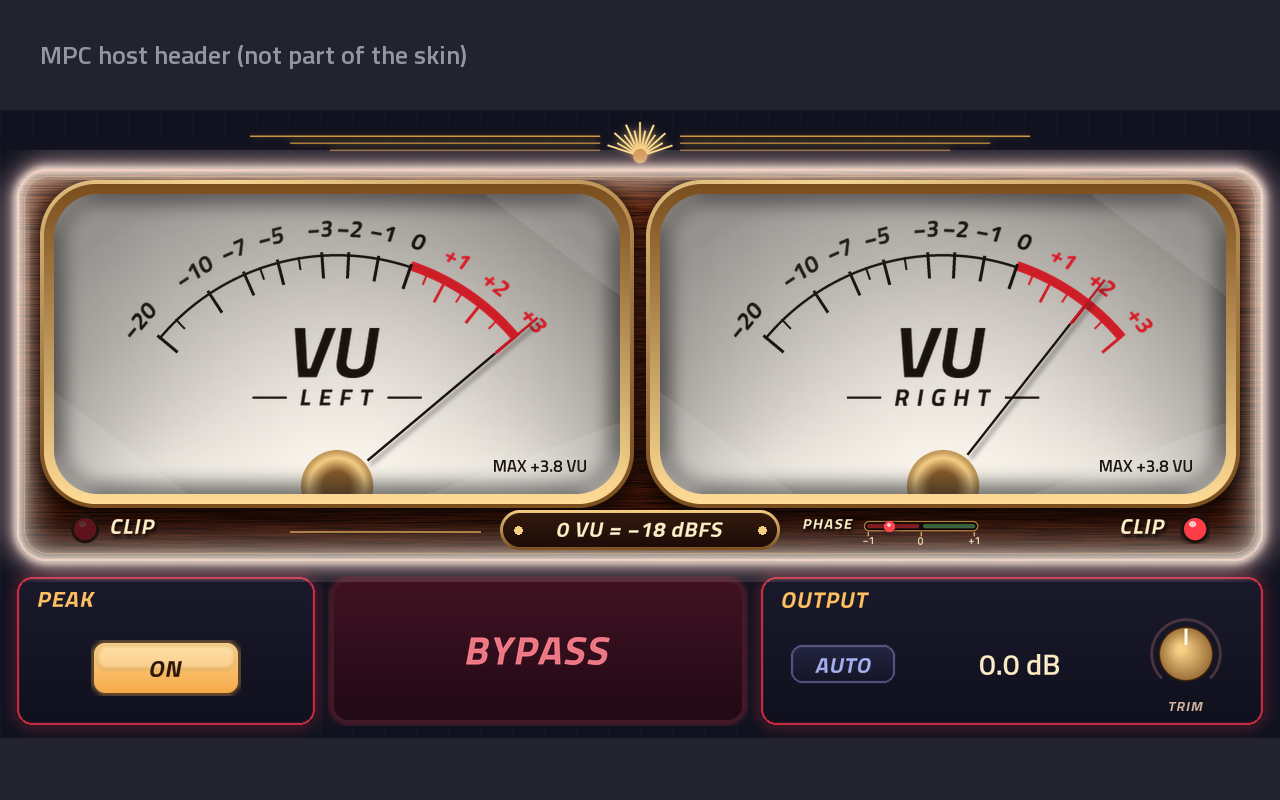
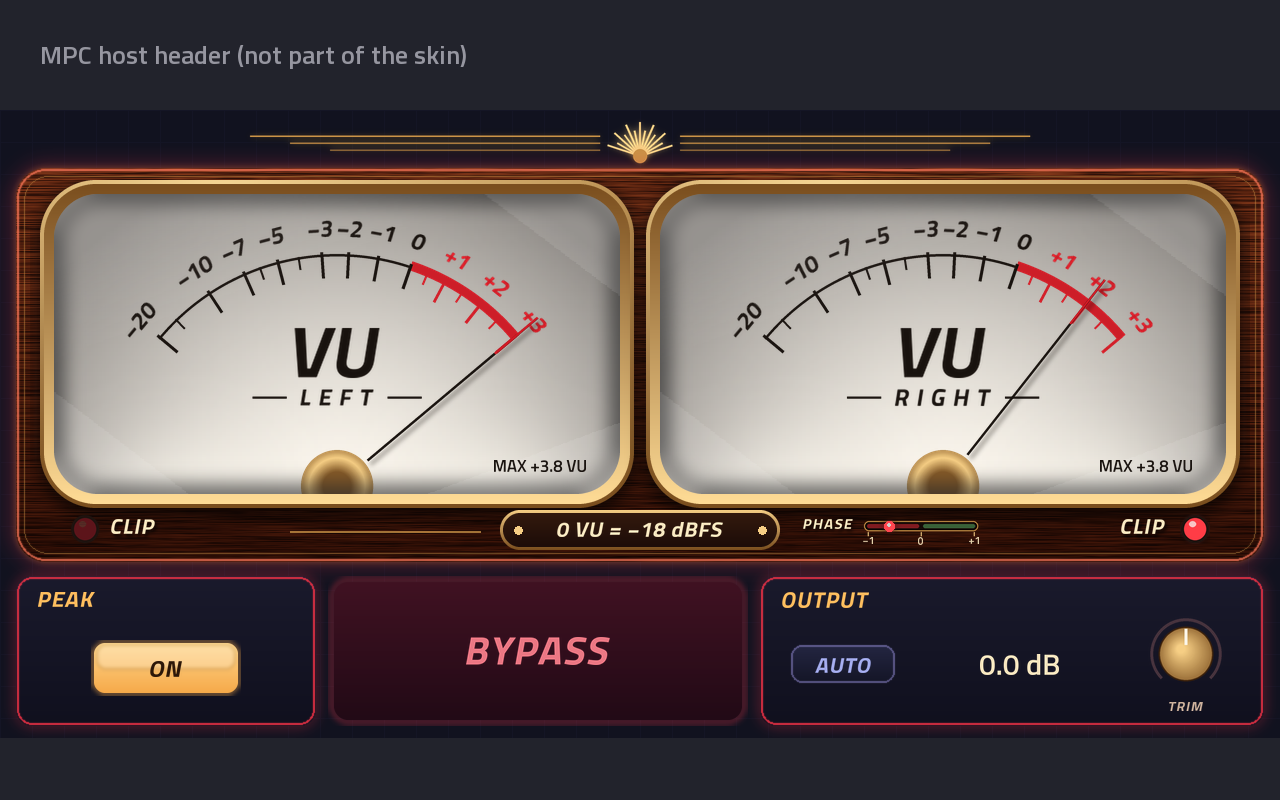
Light: cabinet border never changes colour; React/Cycle tint only the dial windows
Drops the glow halo strip (about 22 MiB of images).

Changed region(s): [[0.0, 0.1875, 1.0, 0.75]]

diff --git a/scripts/make_skin_art.py b/scripts/make_skin_art.py
@@ -402,22 +402,9 @@ def glow_frame(mode, f):
     return img
 
 
-def halo_frame(f):
-    """Full-resolution cabinet halo in the frame's colour (drawn over the static neon edge)."""
-    hx, hy, hw, hh = L.HALO
-    col, heat = L.glow_frame_colour(f)
-    cab = (L.CABINET[0] - hx, L.CABINET[1] - hy, L.CABINET[2], L.CABINET[3])
-    img = Image.new('RGBA', (hw, hh), (0, 0, 0, 0))
-    strength = 0.85 + 0.15 * heat
-    img.alpha_composite(glow_rect((hw, hh), cab, 30, col, 14, 12, int(255 * strength)))
-    img.alpha_composite(glow_rect((hw, hh), cab, 30, col, 6, 6, int(255 * strength)))
-    img.alpha_composite(glow_rect((hw, hh), cab, 30, mix(col, (255, 255, 255), 0.35), 3, 4, int(255 * strength)))
-    return img
-
-
 def make_glow():
     n = L.GLOW_FRAMES
-    gs, hs = L.REACT_GLOW_SCALE, L.REACT_HALO_SCALE
+    gs = L.REACT_GLOW_SCALE
     cw, ch = L.CABINET_INNER[2], L.CABINET_INNER[3]
     for mode in ['stereo']:
         fw, fh = cw // gs, ch // gs
@@ -425,11 +412,6 @@ def make_glow():
         for f in range(n):
             strip.alpha_composite(glow_frame(mode, f).resize((fw, fh), Image.LANCZOS), (0, f * fh))
         save(strip, 'glow_%s.png' % mode)
-    hw, hh = L.HALO[2] // hs, L.HALO[3] // hs
-    strip = Image.new('RGBA', (hw, hh * n), (0, 0, 0, 0))
-    for f in range(n):
-        strip.alpha_composite(halo_frame(f).resize((hw, hh), Image.LANCZOS), (0, f * hh))
-    save(strip, 'glow_halo.png')
 
 
 # ---------------------------------------------------------------------------- needles
@@ -673,9 +655,6 @@ def compose(bg, faces, mode, light_i, vus, cal=1, heat=0.0, clip=True, hue=0.0, 
             step = palette * L.HEAT_FRAMES + int(round(heat * (L.HEAT_FRAMES - 1)))
         else:
             step = L.HUE_FIRST + int(round(hue * L.HUE_FRAMES)) % L.HUE_FRAMES
-        halo = Image.open(os.path.join(OUT, 'glow_halo.png'))
-        hw, hh = halo.size[0], halo.size[1] // L.GLOW_FRAMES
-        page.alpha_composite(halo.crop((0, step * hh, hw, (step + 1) * hh)).resize(L.HALO[2:], Image.BILINEAR), L.HALO[:2])
         glow = Image.open(os.path.join(OUT, 'glow_%s.png' % mode))
         gw, gh = glow.size[0], glow.size[1] // L.GLOW_FRAMES
         page.alpha_composite(glow.crop((0, step * gh, gw, (step + 1) * gh)).resize(L.CABINET_INNER[2:], Image.BILINEAR),

diff --git a/scripts/check_skins.py b/scripts/check_skins.py
@@ -73,8 +73,7 @@ def main():
         for k in range(sectors):
             needle_frames['Parameter %d' % (first + k)] = per + 1
 
-    SCALED = {'glow_stereo.png': L.REACT_GLOW_SCALE, 'glow_mono.png': L.REACT_GLOW_SCALE,
-              'glow_halo.png': L.REACT_HALO_SCALE}
+    SCALED = {'glow_stereo.png': L.REACT_GLOW_SCALE, 'glow_mono.png': L.REACT_GLOW_SCALE}
     decoded = [0]
     widgets = 0
     for tab in page['tabs']:
@@ -102,7 +101,7 @@ def main():
                         fail('%s: %s height %d not divisible by %d frames' % (name, data['image'], size[1], nf))
                     else:
                         fw, fh = size[0], size[1] // nf
-                        # React glow/halo strips are smooth gradients drawn at reduced size on purpose.
+                        # React glow strips are smooth gradients drawn at reduced size on purpose.
                         k = SCALED.get(data['image'], 1)
                         if (fw * k, fh * k) != (w, h):
                             fail('%s: frame %dx%d (x%d) but bounds %dx%d' % (name, fw, fh, k, w, h))

diff --git a/scripts/skin_layout.py b/scripts/skin_layout.py
@@ -65,7 +65,6 @@ HUE_FIRST = HEAT_FRAMES * len(PALETTE_ORDER)
 FLASH_FRAME = HUE_FIRST + HUE_FRAMES
 GLOW_FRAMES = FLASH_FRAME + 1
 REACT_GLOW_SCALE = 4                             # face glow strip at 1/4 resolution (edges hidden under the bezel)
-REACT_HALO_SCALE = 4                             # cabinet halo strip at 1/4 resolution
 FLASH_COLOUR = (255, 250, 238)
 HEAT_STOPS = [                                   # Thermal: heat 0..1 -> backlight colour
     (0.00, (34, 78, 255)),                       # deep blue: quiet
@@ -220,7 +219,6 @@ RATE_BUTTONS = row_buttons(*light_col('cycle'), LIGHT_SUB_Y, 4)
 CLIP_LABELS = ['0 dBFS', '\u22120.3 dBFS', '\u22121 dBFS', '\u22123 dBFS']
 RATE_LABELS = ['1 BAR', '2 BARS', '4 BARS', '8 BARS']
 PALETTE_LABELS = ['THERMAL', 'NEON', 'AMBER']
-HALO = (0, 40, 1280, 432)                      # React cabinet halo region (1/4-res strip)
 
 # ---------------------------------------------------------------------------- dials
 # A dial "window" is the cream face inside a brass bezel. Needle sprites are positioned

diff --git a/scripts/gen_skins.py b/scripts/gen_skins.py
@@ -88,13 +88,9 @@ def main():
     if BY_INDEX[glow]['choices'] and len(BY_INDEX[glow]['choices']) != L.GLOW_FRAMES:
         sys.exit('gen_skins: plugin Glow has %d steps, skin_layout.GLOW_FRAMES is %d'
                  % (len(BY_INDEX[glow]['choices']), L.GLOW_FRAMES))
-    nl = len(L.LIGHT_ORDER)
     g0, g1 = L.LIGHT_ORDER.index(L.GLOW_LIGHTS[0]), L.LIGHT_ORDER.index(L.GLOW_LIGHTS[-1])
 
-    # React / Cycle: cabinet halo in the glow colour (1/4-res strip, scaled up by the MPC)
-    comps.append(filmstrip('glow halo', 'glow_halo.png', L.GLOW_FRAMES, P('Glow'), L.HALO,
-                           only='RangedEnabling/%d/%d/%d/%s' % (g0, g1, nl, P('Light'))))
-
+    # The cabinet border never changes colour: React / Cycle only light the dial windows.
     # dial faces, one per View (= Light; the plugin is stereo only). React and Cycle share a
     # 1/4-res glow strip under a transparent window overlay.
     for li, light in enumerate(L.STATIC_LIGHTS):

diff --git a/docs/SPIKE.md b/docs/SPIKE.md
@@ -22,7 +22,7 @@ These questions can only be answered on a real MPC, ideally a Live III, and an X
 4. **Transparent tap areas.** Transparent Buttons over the CLIP lamps fire the `Reset Clip` trigger.
 
 5. **React and Cycle lighting.**
-   - A 169-step `Glow` parameter drives three filmstrips: a cabinet halo strip and two face-glow strips, all drawn at 1/4 size. The steps are 3 palettes × 16 heat steps, then 120 hue steps, then 1 white clip-flash frame. The glow bleeds 10 px under the bezel so its soft edge is hidden.
+   - A 169-step `Glow` parameter drives the face-glow filmstrip, drawn at 1/4 size. The steps are 3 palettes × 16 heat steps, then 120 hue steps, then 1 white clip-flash frame. The glow bleeds 10 px under the bezel so its soft edge is hidden.
    - The MPC must scale them up to their bounds. It is not yet known whether it scales filmstrip frames, or how smoothly.
    - The glow sits under a full-resolution transparent overlay (bezel, scale, legends).
 
@@ -40,12 +40,12 @@ These questions can only be answered on a real MPC, ideally a Live III, and an X
 | 8 | Check memory and responsiveness | Note memory % before and after opening the plugin and after the view swaps, the page open time, and whether touch and data-wheel response stays crisp while needles move |
 | 9 | Save the project, restart the MPC, reload | 0 VU, Peak, Light, Palette, Rate, Clip Level, Trim and Bypass are restored; needles start at rest |
 | 10 | Run two instances on different tracks with different lights | Independent |
-| 11 | Set LIGHT to REACT and play quiet, then loud, then stop | The dials and halo glow blue when quiet, red near 0 VU and purple when pinned, then fade back to blue over about a second. The glow fills the dial windows exactly; there are no blocky edges or misaligned frames, and the printed scale stays crisp |
+| 11 | Set LIGHT to REACT and play quiet, then loud, then stop | The dials glow blue when quiet, red near 0 VU and purple when pinned, then fade back to blue over about a second. The glow fills the dial windows exactly; there are no blocky edges or misaligned frames, and the printed scale stays crisp |
 | 12 | Set LIGHT to CYCLE; play a sequence at 120 BPM, then stop; change the tempo and time signature | One trip round the colour wheel per 2 bars, the same colour on the same beat every phrase. Pressing Play glides onto the beat. Cycling continues at the tempo when stopped |
 | 13 | Play a loop at about −6 VU and tap AUTO | The button glows for about 3 s, TRIM jumps to about +6.0 dB, the needles then sit around 0 VU. A second tap during listening cancels |
 | 14 | Play mono material, then wide stereo, then flip one channel's polarity | PHASE marker near +1, then near 0, then in the red near −1. With no signal the marker parks |
 | 15 | Push the meter, then tap a CLIP lamp | MAX shows the highest reading (in each dial's lower-right corner) and clears on the tap. Set CLIP LEVEL to −1 on SETUP: a −0.5 dBFS peak now lights CLIP |
-| 16 | Open the SETUP tab: try every CALIBRATION, CLIP LEVEL, LIGHT, PALETTE and RATE button, and Q-Links 13–16 and 9 | Settings apply on METER. In CYCLE, a clip flashes the cabinet white for one beat |
+| 16 | Open the SETUP tab: try every CALIBRATION, CLIP LEVEL, LIGHT, PALETTE and RATE button, and Q-Links 13–16 and 9 | Settings apply on METER. In CYCLE, a clip flashes the dials white for one beat; the cabinet border never changes colour |
 
 ## If something fails
 

diff --git a/docs/CONTROLS.md b/docs/CONTROLS.md
@@ -10,7 +10,7 @@ The meter is stereo: one needle for L and one for R. It only measures; at 0.0 dB
 | **BYPASS** | 14 | Output = input, bit for bit (trim ignored). The meters then show the input. |
 | **OUTPUT TRIM** ±12 dB | 15 | Output gain, smoothed over 20 ms. At 0.0 dB the audio passes through bit-exact. The meters show the trimmed output, so turn it until the music hovers around 0 VU. |
 | **AUTO** (OUTPUT card) | – | Tap while the music plays. It listens for 3 s (the button glows), then sets TRIM so the music **averages 0 VU**. Quiet gaps are ignored, silence changes nothing, and a second tap cancels. |
-| CLIP lamps (tap) | – | Light when a sample reaches the CLIP LEVEL (sample peak, not true peak). Tap a lamp to reset it **and the MAX readings**. In REACT or CYCLE a clip also **flashes the cabinet white for one beat**. |
+| CLIP lamps (tap) | – | Light when a sample reaches the CLIP LEVEL (sample peak, not true peak). Tap a lamp to reset it **and the MAX readings**. In REACT or CYCLE a clip also **flashes the dials white for one beat**. |
 | **MAX** readouts (in each dial) | – | The highest reading each needle has shown since the last lamp tap. It includes the needle's real overshoot. |
 | **PHASE** meter (bottom rail) | – | Stereo correlation: **+1** L and R identical (mono-safe), **0** wide or unrelated, **−1** cancels in mono (red zone). The marker parks when there's no signal. |
 | 0 VU plate | – | Shows the current CALIBRATION. |
@@ -22,7 +22,7 @@ The meter is stereo: one needle for L and one for R. It only measures; at 0.0 dB
 | **CALIBRATION**: −20 / −18 / −14 dBFS | 13 | Sets which level reads 0 VU: a 1 kHz sine whose **peak** is at the chosen level. |
 | **CLIP LEVEL**: 0 / −0.3 / −1 / −3 dBFS | 14 | The level that lights the CLIP lamps. Use −1 or −3 for headroom before resampling or bouncing. |
 | **LIGHT**: STATIC (WARM / COOL / OFF) | 15 | A fixed dial backlight. |
-| **LIGHT**: REACT, with **PALETTE** THERMAL / NEON / AMBER | 15, 16 | Colours the dials and the cabinet halo by how loud the music is. It warms up in about 120 ms and cools over about 0.9 s, like a glowing filament. **Thermal** runs deep blue when quiet → ice blue → amber → red at about 0 VU → magenta → purple when pinned at +3. **Neon** runs cyan → violet → hot magenta. **Amber** runs dim ember → gold → white-hot. It follows the louder needle. |
+| **LIGHT**: REACT, with **PALETTE** THERMAL / NEON / AMBER | 15, 16 | Colours the dials by how loud the music is. It warms up in about 120 ms and cools over about 0.9 s, like a glowing filament. **Thermal** runs deep blue when quiet → ice blue → amber → red at about 0 VU → magenta → purple when pinned at +3. **Neon** runs cyan → violet → hot magenta. **Amber** runs dim ember → gold → white-hot. It follows the louder needle. |
 | **LIGHT**: CYCLE, with **RATE** 1 / 2 / 4 / 8 BARS | 15, 9 | Travels once round the colour wheel per RATE (default 2 bars), in 120 fine steps (3° each), so even an 8-bar cycle drifts smoothly. While the song plays it locks to the song position, so the same colour lands on the same beat of every phrase, in any tempo and time signature. Pressing Play glides it onto the beat. Stopped, it keeps cycling at the project tempo. |
 
 ## What a VU meter shows

diff --git a/README.md b/README.md
@@ -7,7 +7,7 @@ An analog-style VU meter insert effect for Akai MPC standalone (MPC OS 3.10.1+).
 - **Calibration**: 0 VU = −20 / −18 / −14 dBFS. The reference is a 1 kHz sine whose *peak* is at that level.
 - **CLIP lamps**: sample-peak at a selectable CLIP LEVEL, with an optional 2 s hold. Tap a lamp to reset it. This is not true-peak detection.
 - **LIGHT**: Warm, Cool, Off, **React** or **Cycle**.
-  - **React** makes the dials and cabinet glow blue → red → purple as the program heats up, with filament-like warm-up and cool-down. ![react](docs/images/react.gif)
+  - **React** makes the dials glow blue → red → purple as the program heats up, with filament-like warm-up and cool-down. ![react](docs/images/react.gif)
   - **Cycle** sweeps round the hue wheel once every two bars, locked to the MPC's tempo and song position. ![cycle](docs/images/cycle.gif)
 - **AUTO trim**: one tap, 3 s of listening, and TRIM is set so the music averages 0 VU.
 - **PHASE** correlation meter, **MAX** VU readouts, and a selectable **CLIP LEVEL** (0 / −0.3 / −1 / −3 dBFS).
